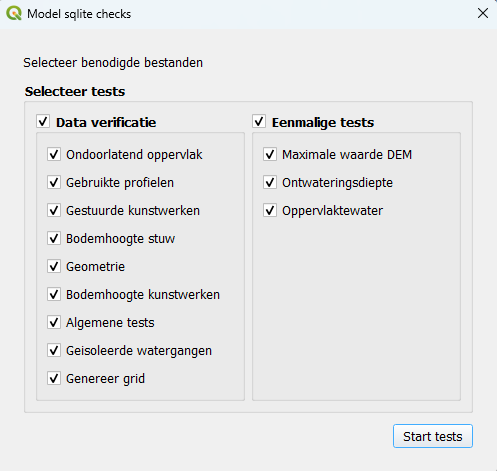
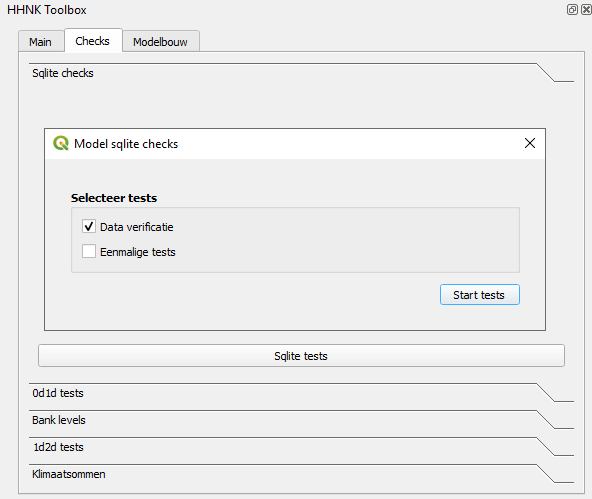
update readme, including some updates from vergelijkingstool and also some updates in some steps that were outdated

diff --git a/docs/md_files/4_gebruik_plugin/k_vergelijkingstool.md b/docs/md_files/4_gebruik_plugin/k_vergelijkingstool.md
@@ -1,0 +1,204 @@
+# Vergelijkingstool DAMO / modelgegevens
+
+Binnen HHNK worden 3Di modellen opgebouwd met brongegevens uit DAMO en de lokale HDB-database. Deze gegevens worden via FME geëxporteerd. Met de vergelijkingstool kunnen modelleurs verschillen inzichtelijk maken tussen een recente DAMO- en HDB-export en een bestaand 3Di model. Daarnaast kan dezelfde export worden vergeleken met een oudere DAMO- en HDB-dataset. De tool vergelijkt onder andere:
+
+| Onderdeel | Controle |
+| --- | --- |
+| Watergangen | Aanwezigheid, geometrie en attributen |
+| Kunstwerken | Verschillen in ligging en kenmerken |
+| Peilgebieden | Controle van actuele grenzen en waterpeilen |
+| Modelinput | Vergelijking tussen de bestaande modelgegevens en de nieuwe DAMO en HDB export |
+
+Het doel is niet om automatisch te bepalen wat “goed” of “fout” is, maar om verschillen zichtbaar te maken, zodat daarna een inhoudelijke beoordeling kan worden uitgevoerd.
+
+---
+
+## Workflow
+
+Op basis van de vergelijking kan worden beoordeeld of het bestaande model nog geschikt is voor hergebruik, met enkele aanpassingen kan worden bijgewerkt, of opnieuw moet worden opgebouwd.
+
+Het onderstaande stroomschema toont de algemene workflow en de bijbehorende besluitvorming. Het jaar 2014 wordt hierin alleen gebruikt als voorbeeld van een oudere brondata-export. Het diagram laat zien hoe de resultaten van de vergelijkingstool kunnen worden gebruikt om een onderbouwde keuze te maken tussen hergebruik, aanpassing of nieuwbouw van het model.
+
+![Workflow](../../images/4_gebruik_plugin/f_vergelijkingstool//workflow_vergelijkingstool.png)
+
+## Benodigde input
+
+De vergelijkingstool verwacht dat de invoerbestanden volgens een vaste mappenstructuur zijn opgeslagen. Het model moet minimaal de volgende mappen bevatten:
+```text
+model_folder/
+    ├── 00_config
+    ├── 01_source_data
+    ├── 02_schematisation
+    ├── 03_3di_results
+    ├── 04_test_results
+    └── Notebooks
+```
+
+Binnen deze structuur leest de tool de gegevens uit de volgende locaties:
+```text
+model_folder/
+    ├── 01_source_data/
+    │   ├── DAMO.gpkg                        ← Oude DAMO-export
+    │   ├── HDB.gpkg                         ← Oude HDB-export
+    │   └── vergelijkingstool/
+    │       ├── input_nieuwe_export/
+    │       │   ├── DAMO.gpkg                ← Nieuwe DAMO-export
+    │       │   └── HDB.gpkg                 ← Nieuwe HDB-export
+    │       └── output/
+    │           └── vergelijkingstool_output.gpkg
+    └── 02_schematisation/
+        └── 00_basis/
+            └── HUB.gpkg                     ← Bestaand 3Di model
+```
+      
+Om de vergelijkingstool goed te laten werken, moet eerst vanuit FME een nieuwe export van DAMO en HDB worden gemaakt. Deze meest recente export wordt opgeslagen in de map `input_nieuwe_export`. Voor het model HUB is dat de volgende locatie:
+
+<p align="center">
+<code>H:\02.modellen\HUB\01_source_data\vergelijkingstool\input_nieuwe_export</code>
+</p>
+
+Daarnaast moeten ook de oude DAMO en HDB bestanden in `01_source_data` aanwezig zijn en moet het bestaande 3Di model beschikbaar zijn in de map van de basisschematisatie:
+
+<p align="center">
+<code>H:\02.modellen\HUB\02_schematisation\00_basis</code>
+</p>
+
+Deze vaste mappenstructuur is noodzakelijk voor de werking van de vergelijkingstool, ongeacht of de vergelijking **`Damo Updated vs 3Di model`** of **`Damo Updated vs Damo Old`** wordt uitgevoerd. Als de bestanden niet volgens deze structuur zijn opgeslagen, kan de vergelijkingstool de benodigde invoer niet correct vinden en zal de tool niet goed werken.
+---
+
+## **Handleiding**
+
+De `vergelijkingstool` wordt gebruikt vanuit de QGIS-plugin en wordt vervolgens uitgevoerd vanuit JupyterLab.
+
+De workflow bestaat uit twee hoofdonderdelen:
+
+1. JupyterLab openen vanuit de QGIS-plugin.
+2. De `vergelijkingstool` uitvoeren vanuit het notebook.
+
+---
+
+### 1. JupyterLab openen vanuit de QGIS-plugin
+
+Het eerste deel van het proces wordt uitgevoerd vanuit het hoofdtabblad van de plugin.
+
+![Workflow plugin](../../images/4_gebruik_plugin/f_vergelijkingstool//workflow_plugin.png)
+
+#### **Stap 1. De modellenmap selecteren**
+
+In het veld *“Modellen folder”* moet de hoofdmap worden geselecteerd waarin de modellen zijn opgeslagen. Deze map is de basismap van waaruit de plugin de beschikbare modellen zoekt.
+
+#### **Stap 2. De polder of het model selecteren**
+
+In het veld *“Polder”* moet de polder of het model worden geselecteerd waarmee gewerkt gaat worden. Nadat de modellenmap is geselecteerd, toont de plugin de beschikbare opties in deze lijst.
+
+#### **Stap 3. De API keys controleren**
+
+Voordat verder wordt gegaan, moet worden gecontroleerd of de benodigde *API keys* correct zijn ingesteld en opgeslagen in de juiste map. Deze API keys zijn nodig om de notebooks verbinding te laten maken met de vereiste services en correct uit te voeren.
+
+#### **Stap 4. De Jupyter Notebook Server openen**
+
+Klik vervolgens op de knop *“Open Jupyter Notebook Server”*. Deze knop start de Jupyter Notebook Server en opent JupyterLab in de standaardbrowser.
+
+---
+
+### 2. De vergelijkingstool uitvoeren vanuit JupyterLab
+
+Zodra JupyterLab in de browser is geopend, moet het bestand worden geopend en uitgevoerd dat hoort bij de `vergelijkingstool`.
+
+![Workflow notebook](../../images/4_gebruik_plugin/f_vergelijkingstool/workflow_notebook.png)
+
+#### **Stap 1. Het bestand `06_vergelijkingstool.py` openen**
+
+Zoek in het linkerpaneel van JupyterLab het bestand `06_vergelijkingstool.py`.
+
+Om het bestand correct te laten werken, moet het met **Jupytext** als notebook worden geopend.
+
+Doe dit als volgt:
+
+* Klik met de rechtermuisknop op `06_vergelijkingstool.py`
+* Selecteer **Open With**
+* Selecteer **Jupytext Notebook**
+
+Hiermee wordt het `.py` bestand geopend als een uitvoerbaar notebook binnen JupyterLab.
+
+#### **Stap 2. Het notebook uitvoeren**
+
+Zodra het bestand als notebook is geopend, klik je op de knop *Run*. Deze knop voert de hoofdcel uit en toont de grafische interface van de `vergelijkingstool` binnen het notebook.
+
+#### **Stap 3. Het modelpad controleren**
+
+In het veld *“Enter the Model folder path”* moet de locatie van het model waarmee gewerkt wordt worden gecontroleerd of ingevoerd. Dit pad moet overeenkomen met het model dat eerder in de QGIS-plugin is geselecteerd.
+
+#### **Stap 4. Het type vergelijking selecteren**
+
+Selecteer vervolgens de optie **`Damo Updated vs 3Di model`**.
+
+DDeze optie vergelijkt de laatste FME-export van de DAMO- en HDB-bestanden met het bestaande 3Di model. De nieuwe DAMO- en HDB-export wordt gelezen vanuit de map `input_nieuwe_export`. Het bestaande 3Di model wordt gelezen vanuit de map van de basisschematisatie: `02_schematisation/00_basis`.
+
+De volledige mappenstructuur en de exacte locaties van deze bestanden zijn beschreven in de paragraaf [Benodigde input](#benodigde-input)
+
+Deze structuur is noodzakelijk om de vergelijkingstool correct te laten werken. Als de mappenstructuur niet correct is ingericht, kan de `vergelijkingstool` de benodigde bestanden niet vinden en zal de tool niet goed werken.
+
+#### **Stap 5. De vergelijking uitvoeren**
+
+Wanneer alle instellingen klaarstaan, klik je op de knop *“Run Comparison”*. De tool voert de vergelijking tussen de geselecteerde databases uit en genereert het outputbestand. De volledige locatie van het gegenereerde bestand wordt weergegeven in het veld *“Full path”*. Dit `.gpkg` bestand kan daarna in QGIS worden geopend om de gevonden verschillen te beoordelen.
+
+---
+
+## Interpretatie van de resultaten
+
+De output van de `vergelijkingstool` moet niet alleen worden geïnterpreteerd als een lijst met fouten.  
+De resultaten dienen als ondersteuning om te beoordelen of het bestaande model nog kan worden hergebruikt, gedeeltelijk moet worden geactualiseerd of beter opnieuw kan worden opgebouwd met recentere brongegevens.
+
+De beoordeling moet zich vooral richten op:
+
+- Het type verschil: `attribuut verschillen` of `structuurverschillen`.
+- De classificatie van het verschil: `Warning` of `Critical Error`.
+- De locatie van het verschil binnen het systeem.
+- De mogelijke hydraulische invloed op het model.
+- De complexiteit van een eventuele handmatige correctie.
+
+Als algemene richtlijn geldt:
+
+| Situatie | Mogelijke beslissing |
+| --- | --- |
+| Er zijn geen relevante verschillen | Het bestaande model hergebruiken |
+| Er zijn vooral verschillen in attributen | Het bestaande model actualiseren |
+| Er zijn kritieke structurele verschillen in belangrijke delen van het systeem | Overwegen om het model opnieuw op te bouwen |
+| De verschillen liggen aan de randen van het model of zijn geïsoleerde gevallen | Beoordelen of ze handmatig kunnen worden gecorrigeerd |
+
+Ook als er bijvoorbeeld veel verschillen in de attributen zijn kan het efficiënter zijn om het model opnieuw op te bouwen. De uiteindelijke beslissing moet door de modelleur worden genomen op basis van een inhoudelijke beoordeling van de lagen die in QGIS zijn gegenereerd. Voor een uitgebreidere beschrijving van het beoordelingsproces en de vastlegging van de beslissing, zie het criteria-document:
+
+[Document met criteria voor de vergelijkingstool](https://corphhnk.sharepoint.com/:w:/s/ROKHydrologischeAdviesdiensten/IQBLc8cGy5ggRKOJ338Pqq9pAeQFvm9HCoX5xgaFdGa_pqI?e=hvBwLz)
+
+Ten slotte kan het zijn dat de adviseur van watersystemen reden ziet om het model aan te passen of opnieuw op te bouwen op basis van de bestaande resultaten.
+
+---
+## Vastlegging van de beoordeling
+
+Na het uitvoeren van de vergelijkingstool moet de beoordeling van de resultaten worden vastgelegd in een apart Word-document. Dit document wordt gebruikt om de keuze te onderbouwen of een bestaand 3Di model kan worden hergebruikt, moet worden aangepast, of opnieuw moet worden opgebouwd.
+
+Nadat de vergelijkingstool is gebruikt, wordt het document geplaatst in de map van de vergelijkingstool: `H:\02.modellen\HUB\01_source_data\vergelijkingstool`.
+
+In dit document legt de modelleur vast welke beslissing is genomen op basis van de resultaten van de vergelijkingstool. Het `.gpkg` outputbestand van de vergelijkingstool blijft de basis voor de inhoudelijke beoordeling in QGIS. Het Word-document is bedoeld als formele vastlegging van de gemaakte keuze en de belangrijkste aandachtspunten voor vervolgacties.
+
+---
+## Aanbevolen werkwijze in het kort
+
+1. Controleer eerst of de gebruikte DAMO en HDB export recent is.
+2. Open het resultaat in QGIS.
+3. Beoordeel de belangrijkste verschillen.
+4. Vergelijk de gemarkeerde objecten met de oorspronkelijke modelgegevens.
+5. Bespreek twijfelgevallen met de inhoudelijk verantwoordelijke adviseur.
+6. Documenteer welke verschillen moeten worden gecorrigeerd en welke kunnen worden geaccepteerd.
+
+---
+
+## Contact
+
+Voor vragen over de inhoud van het model:
+
+**Modelleur:** Juan Acosta  
+**Team:** Hydrologie / HHNK
+
+Voor technische problemen met de tool kan contact worden opgenomen met de beheerder van de vergelijkingstool.

diff --git a/docs/md_files/4_gebruik_plugin/z_bekende_problemen.md b/docs/md_files/4_gebruik_plugin/z_bekende_problemen.md
@@ -24,3 +24,106 @@ Deze error kan op de volgende manier opgeloste worden:
    Klik op `yes`. De .sqlite staat nu in een versie die ingeladen kan worden in 3Di zonder foutmelding. 
 
    `{gebruiker}` is de naam van de Windows-gebruiker.
+
+### JupyterLab/Notebook opent niet vanuit de HHNK-plugin
+
+Wanneer JupyterLab of de Jupyter Notebook Server niet goed opent vanuit de HHNK-plugin in de 3Di Modeller Interface, kan bijvoorbeeld de volgende foutmelding verschijnen:
+
+```text
+TypeError: sequence item 1: expected str instance, NoneType found
+```
+
+Deze foutmelding kan erop wijzen dat de benodigde JupyterLab/Notebook-packages niet correct beschikbaar zijn in de Python-omgeving die door de 3Di Modeller Interface wordt gebruikt.
+
+De plugin bevat een environment-referentiebestand op de volgende locatie:
+
+```text
+C:\Users\<USERNAME>\AppData\Roaming\3Di\QGIS3\profiles\default\python\plugins\hhnk_threedi_plugin\env\environment.yml
+```
+
+Vervang `<USERNAME>` door je eigen Windows-gebruikersnaam.
+
+Let op: dit YAML-bestand wordt gebruikt als referentie, maar QGIS/3Di activeert deze environment niet automatisch. Daarom moeten de benodigde Jupyter-packages worden geïnstalleerd in de Python-omgeving die door de 3Di Modeller Interface wordt gebruikt.
+
+#### Installatie van JupyterLab/Notebook
+
+Open de **QGIS Python Console** binnen de 3Di Modeller Interface en voer het volgende uit:
+
+```python
+import subprocess
+
+python_qgis = r'"C:\Program Files\3DiModellerInterface 3.34\bin\python-qgis-ltr.bat"'
+
+cmd = (
+    python_qgis
+    + ' -m pip install --user --force-reinstall --no-deps '
+    + '"jupyterlab==4.2.0" '
+    + '"notebook==7.2.0" '
+    + '"jupytext==1.16.6" '
+    + '"matplotlib-inline==0.1.7" '
+    + '"ipywidgets==8.1.2" '
+    + '"jupyterlab_widgets==3.0.10"'
+)
+
+subprocess.run(cmd, shell=True, check=True)
+```
+
+We gebruiken `python-qgis-ltr.bat`, omdat dit verwijst naar de Python-omgeving die door de 3Di Modeller Interface wordt gebruikt:
+
+```text
+C:\Program Files\3DiModellerInterface 3.34\bin\python-qgis-ltr.bat
+```
+
+Sluit daarna de 3Di Modeller Interface volledig af en start het programma opnieuw op.
+
+ ![Alt text](../../images/4_gebruik_plugin/a_overzicht_plugin/jupyter_notebook_error.png)
+
+> **Let op:** installeer of update niet handmatig packages zoals `numpy`, `matplotlib`, `h5py`, `scipy`, `geopandas`, `rasterio` of `Fiona` in de user environment. Deze packages kunnen de 3Di/QGIS-omgeving verstoren. De installatiestap hierboven installeert alleen de Jupyter-gerelateerde packages die nodig zijn om JupyterLab/Notebook vanuit de HHNK-plugin te kunnen gebruiken.
+
+#### Mogelijke foutmelding: `AttributeError: _ARRAY_API not found`
+
+Een andere foutmelding die kan optreden bij het openen van JupyterLab/Notebook is:
+
+```text
+AttributeError: _ARRAY_API not found
+```
+
+Deze foutmelding betekent waarschijnlijk dat `numpy` in de user environment is geïnstalleerd. Dit kan de 3Di/QGIS-omgeving verstoren.
+
+Controleer eerst waar `numpy` geïnstalleerd is:
+
+```python
+import subprocess
+
+python_qgis = r'"C:\Program Files\3DiModellerInterface 3.34\bin\python-qgis-ltr.bat"'
+
+subprocess.run(
+    python_qgis + " -m pip show numpy",
+    shell=True,
+    check=True
+)
+```
+
+Als bij `Location` een pad in de user environment staat, bijvoorbeeld:
+
+```text
+C:\Users\<USERNAME>\AppData\Roaming\Python\Python39\site-packages
+```
+
+dan kan `numpy` uit de user environment worden verwijderd met:
+
+```python
+import subprocess
+
+python_qgis = r'"C:\Program Files\3DiModellerInterface 3.34\bin\python-qgis-ltr.bat"'
+
+subprocess.run(
+    python_qgis + " -m pip uninstall -y numpy",
+    shell=True,
+    check=True
+)
+```
+
+Start daarna de 3Di Modeller Interface opnieuw op.
+
+Met deze stappen worden de benodigde Jupyter-packages geïnstalleerd in de Python-omgeving die door de 3Di Modeller Interface wordt gebruikt. Dit maakt het mogelijk om de Jupyter Notebook Server via de HHNK-plugin te openen. Als er daarna nog foutmeldingen optreden, controleer dan eerst of er geen conflicterende packages in de user environment zijn geïnstalleerd.

diff --git a/docs/md_files/4_gebruik_plugin/b_project_starten.md b/docs/md_files/4_gebruik_plugin/b_project_starten.md
@@ -15,7 +15,7 @@ Voordat een nieuw project aangemaakt kan worden, moet een modellen folder gekoze
 
 ![Alt text](../../images/4_gebruik_plugin/a_overzicht_plugin/nieuw_project.png)
 
-Kies een locatie in de verkenner waar alles opgeslagen gaat worden (raadzaam om een lokale map te kiezen). Dit kan bijvoorbeeld in de map `C:\Users\{gebruiker}\Documents\3Di`. Je kunt ook een nieuwe map in de verkenner (locatie staat vrij, maar raadzaam om lokaal te werken) aanmaken. 
+Kies een locatie in de verkenner waar alles opgeslagen gaat worden (raadzaam om een lokale map te kiezen). Dit kan bijvoorbeeld in de map `D:\01.modelrepos\{gebruiker}`. Je kunt ook een nieuwe map in de verkenner (locatie staat vrij, maar raadzaam om lokaal te werken) aanmaken. 
 
 `{gebruiker}` is de naam van de Windows-gebruiker.
 

diff --git a/docs/md_files/4_gebruik_plugin/c_sqlite_checks.md b/docs/md_files/4_gebruik_plugin/c_sqlite_checks.md
@@ -11,7 +11,7 @@ Wanneer in de `main` van de HHNK toolbox de juiste modellen folder en polder zij
 
 ![Alt text](../../images/2_werkwijze_bwn/e_model_controleren_verbeteren/3_sqlite_checks/sqlite_checks_venster_HHNK_Toolbox.png)
 
-3. Selecteer in het Model sqlite check venster alle testen. Zorg er ook voor dat data verificatie en eenmalige tests zelf zijn geselecteerd. Het `Model sqlite checks` venster zou er dan zo uit moeten zien als op onderstaande afbeelding.
+3. Selecteer in het Model sqlite checks venster de gewenste testgroepen. Voor een volledige controle selecteer je zowel Data verificatie als Eenmalige tests. Het Model sqlite checks venster zou er dan ongeveer uit moeten zien zoals op onderstaande afbeelding.
 
 ![Alt text](../../images/2_werkwijze_bwn/e_model_controleren_verbeteren/3_sqlite_checks/model_sqlite_venster.png)
 